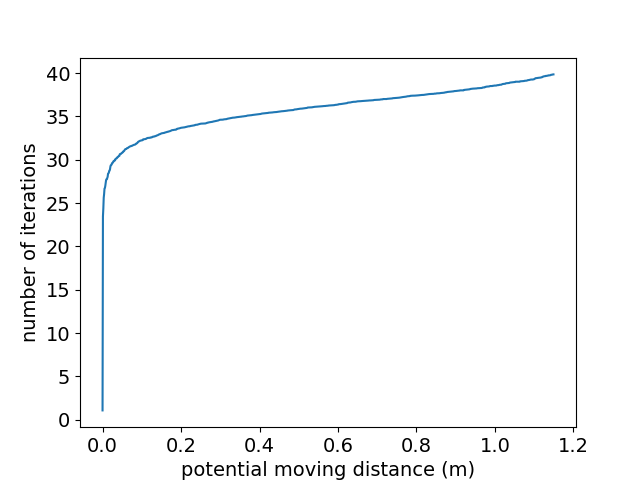
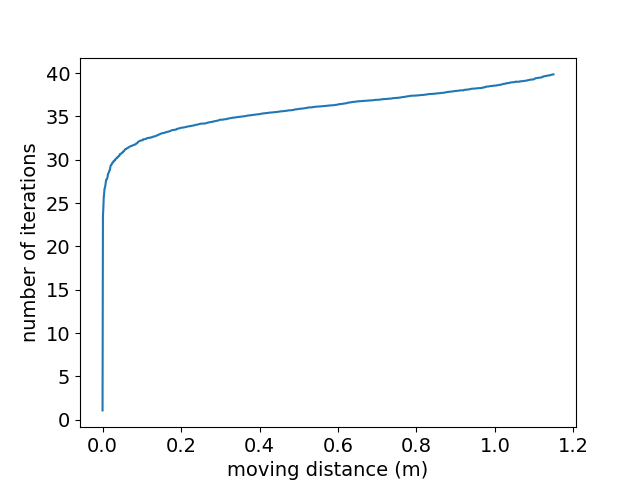
range

Changed region(s): [[0.2812, 0.9688, 0.75, 1.0]]

diff --git a/scripts/experiments.py b/scripts/experiments.py
@@ -181,6 +181,8 @@ def bout_data(iter, dataset):
         rang = 0.0005
         dsf = 'full/'
 
+    range = 0.05
+
     filename = RESULT_FOLDER+dsf+'post_num_'+str(iter)
 
     dev = []
@@ -245,7 +247,7 @@ def ik_iteration(iter):
     robot = Robot()
     iteration = []
     deviation = []
-    dev = [0.05, 0.02, 0.01, 0.005, 0.003, 0.001, 0.0001, 0.0]
+    dev = [0.05, 0.02, 0.01, 0.005, 0.003, 0.001, 0.0002, 0.0001, 0.0]
     origin = robot.fk_dh([0]*7)[0]
 
     for _ in range(iter):
@@ -256,19 +258,22 @@ def ik_iteration(iter):
             z = round(r.uniform(-0.36, 1.19), 4)
             target = [x, y, z]
             diff = np.linalg.norm(np.array(origin) - np.array(target))
-            # if diff < 0.05:
-            #     continue
-            tmp_joint, time, stat, joint_list = chain.inverse_kinematics(target)
-        # print(len(joint_list))
+            tmp_joint, time, _, nit, joint_list = chain.inverse_kinematics(target)
+            if np.linalg.norm(robot.fk_dh(tmp_joint[1:-1])[0] - np.array(target)) < 0.0001:
+                stat = 0
+        # print(target)
+        # print(joint_list[-1])
+        # print(tmp_joint[1:-1])
         deviation.append(diff)
         i = 0
         it = []
+        it.append(len(joint_list))
         for dis in dev:
-            tmp = 0
             while i < len(joint_list) and np.linalg.norm(robot.fk_dh(joint_list[i])[0] - np.array(target)) > dis:
-                tmp += 1
+                # if dis == 0.0:
+                #     print(np.linalg.norm(robot.fk_dh(joint_list[i])[0] - np.array(target)))
                 i += 1
-            it.append(tmp)
+            it.append(len(joint_list[i:]))
         iteration.append(it)
 
     # np.save(RESULT_FOLDER+str(iter)+'iteration_dis', [dev, iteration])
@@ -338,8 +343,8 @@ def drawing_line():
     #3: 20/100
     #2: 100/1000
     num = [[2, 0, 100, 1000], [3, 0, 10, 100], [4, 0, 50, 5000], [5, 0, 200, 1000], [6, 200, 700, 1000], [7, 700, 1000, 1000], [8, 1000, 1250, 1000]]
-    # for n in range(len(num)):
-    for n in num[:3]:
+    for n in num[3:]:
+    # for n in num[:3]:
         data = np.load(RESULT_FOLDER+'distribution_range_iter_'+str(n[0])+'.npy', allow_pickle=True)
         i = 0
         for dis in range(n[1], n[2]):
@@ -402,11 +407,11 @@ def drawing_line():
     plt.plot(info[0][:100], info[1][:100])
     plt.xticks(fontsize=14)
     plt.yticks(fontsize=14)
-    plt.xlabel("potential moving distance (m)", size=14)
+    plt.xlabel("moving distance (m)", size=14)
     plt.ylabel("number of iterations", size=14)
     # plt.title('distance vs iteration')
     # plt.savefig(RESULT_FOLDER+'dist_iter_all_line.png')
-    plt.savefig(RESULT_FOLDER+'dist_iter_all_line_near.png')
+    # plt.savefig(RESULT_FOLDER+'dist_iter_all_line_near.png')
     plt.show()
 
 def draw(dataset, name):
@@ -694,11 +699,12 @@ def secondary_compare(dataset, iter, threshold, pos_num):
 
         s = d.datetime.now()
         nearby_postures = [pos_info[inds[0]] for inds in ik_simulator.posture_comparison_all_joint_sorted(pos_info)]#index
+        # nearby_postures = ik_simulator.posture_comparison(pos_info)
         e = d.datetime.now()
         classify = e - s
 
         post_num.append(len(nearby_postures))
-        # print(len(nearby_postures))
+        print(len(pos_info), len(nearby_postures))
 
         s = d.datetime.now()
         ori_tmp = 0
@@ -947,6 +953,129 @@ def secondary_hard(dataset, iter, threshold, pos_num):
     np.save(filename, message)
     messenger(message)
 
+def table_num(dataset, iter, threshold, pos_num):
+    chain = Chain.from_urdf_file('panda_arm_hand_fixed.urdf', base_elements=['panda_link0'], active_links_mask=[False, True, True, True, True, True, True, True, False])
+    # print(chain)
+    robot = Robot()
+    ik_simulator = IKSimulator(algo='ikpy', dataset=dataset)
+    property = index.Property(dimension=3, fill_factor=0.9)
+    idx = index.Index(os.path.join(RAW_DATA_FOLDER, dataset), properties=property)
+
+    if dataset.startswith('rtree'):
+        res = [-0.855, -0.855, -0.36, 0.855, 0.855, 1.19]
+        if dataset.startswith('rtree_30'):
+            dsf = 'rtree_30/'
+        elif dataset.startswith('rtree_20'):
+            dsf = 'rtree_20/'
+        elif dataset.startswith('rtree_10'):
+            dsf = 'rtree_10/'
+    elif dataset.startswith('dense'):
+        res = [0.2, 0.45, 0.3, 0.25, 0.5, 0.35]
+        dsf = 'dense/'
+    elif dataset.startswith('full'):
+        res = [0.2, 0.4, 0.3, 0.215, 0.415, 0.315]
+        dsf = 'full/'
+
+    filename = RESULT_FOLDER+dsf+'table_num_'+str(iter)+'_'+str(pos_num)
+    print(dataset+'_'+str(iter)+'_'+str(threshold))
+
+    query_num = []
+    post_num = []
+    ra = []
+
+    methods = ['L-BFGS-B', 'BFGS', 'SLSQP', 'CG']
+    opm = methods[0]
+
+    message = {}
+
+    rang = 0.01
+    while True:
+        qn = []
+        pn = []
+        for _ in range(iter):
+            q = np.zeros(7)
+            for j in range(6):
+                q[j] = r.uniform(robot.joints[j].min, robot.joints[j].max)
+            target_pos, target_ori = robot.fk_dh(q)
+            if target_pos[1] < -0.2 or target_pos[2] > 0.7 or target_pos[2] < 0.0:
+                continue
+
+            if pos_num == 'all':
+                tar_coord = [t+offset for offset in (-rang, rang) for t in target_pos]
+                s = d.datetime.now()
+                pos_info = list(idx.intersection(tar_coord, objects='raw'))
+                e = d.datetime.now()
+
+                if len(pos_info) < 20:
+                    s = d.datetime.now()
+                    pos_info = list(idx.nearest(target_pos.tolist(), 50, objects='raw'))
+                    e = d.datetime.now()
+
+                query = e - s
+            else:
+                s = d.datetime.now()
+                pos_info = list(idx.nearest(target_pos.tolist(), pos_num, objects='raw'))
+                e = d.datetime.now()
+                query = e - s
+
+            qn.append(len(pos_info))
+
+            s = d.datetime.now()
+            nearby_postures = [pos_info[inds[0]] for inds in ik_simulator.posture_comparison_all_joint_sorted(pos_info)]#index
+            e = d.datetime.now()
+            classify = e - s
+
+            pn.append(len(nearby_postures))
+
+        ra.append(rang)
+        query_num.append(np.mean(qn))
+        post_num.append(np.mean(pn))
+
+        prop = post_num[-1] / query_num[-1]
+        if prop > 0.5:
+            message['half'] = rang
+        elif prop < 0.2:
+            break
+        rang += 0.005
+
+    idx.close()
+    message['rang'] = ra
+    message['query_num'] = query_num
+    message['post_num'] = post_num
+
+
+    np.save(filename, message)
+    # messenger(message)
+
+def draw_num(dataset):
+    from matplotlib import pyplot as plt
+    from mpl_toolkits.mplot3d import Axes3D
+
+    data = np.load(RESULT_FOLDER+dataset+'/table_num_1000_all.npy', allow_pickle=True)
+    # print(len(data[1])
+    # data['query_num']
+    # data['post_num']
+
+    #30 10, 200, 5
+    #20
+    #10
+
+    # ra = [i/1000 for i in range(10, 200, 5)]#rtree_30
+    ra = data.tolist()['rang']
+    ra = [r*100 for r in ra]
+    qn = data.tolist()['query_num']
+    pn = data.tolist()['post_num']
+    # print([p/q for p,q in zip(pn,qn)])
+
+    plt.plot(ra, qn)
+    plt.plot(ra, pn)
+    plt.xticks(fontsize=14)
+    plt.yticks(fontsize=14)
+    plt.xlabel("range (cm)", size=14)
+    plt.ylabel("number of results", size=14)
+    plt.title(dataset)
+    # plt.savefig(RESULT_FOLDER+'draw_num_'+dataset+'.png')
+    plt.show()
 
 def accelerate(dataset, iter, threshold):
     chain = Chain.from_urdf_file('panda_arm_hand_fixed.urdf', base_elements=['panda_link0'], active_links_mask=[False, True, True, True, True, True, True, True, False])
@@ -1192,20 +1321,22 @@ if __name__ == '__main__':
     print('start')
     start = d.datetime.now()
 
-    # dataset = 'rtree_30'
+    dataset = 'rtree_30'
     # dataset = 'rtree_20'
-    dataset = 'rtree_10'
+    # dataset = 'rtree_10'
     # dataset = 'dense'
     # dataset = 'full_jointonly_8'
 
+    draw_num(dataset)
+    # table_num(dataset, 1000, 1e-4, 'all')
 
     # ds = ['rtree_30', 'rtree_20', 'rtree_10', 'dense', 'full_jointonly_8']
     # for dsf in ds[:3]:
     #     # query_time(dsf, 10000)
-    #     bout_data(1000, dsf)
+    #     # bout_data(1000, dsf)
+    #     table_num(dsf, 1000, 1e-4, 'all')
 
-
-    secondary_hard(dataset, 1000, 1e-4, 'all')
+    # secondary_hard(dataset, 1000, 1e-4, 'all')
 
     # secondary_compare(dataset, 100, 1e-4, 'all')
     # secondary_compare(dataset, 1000, 1e-4, 500)
@@ -1222,7 +1353,6 @@ if __name__ == '__main__':
     # posture_num(1)
     # draw('rtree_20', 'inter_300_post')
     # high_dof(1000)
-    # secondary_compare(dataset, 1000, 1e-4)
     # ik_speed_draw(100)
     # drawing_line()
     # drawing_improve()
